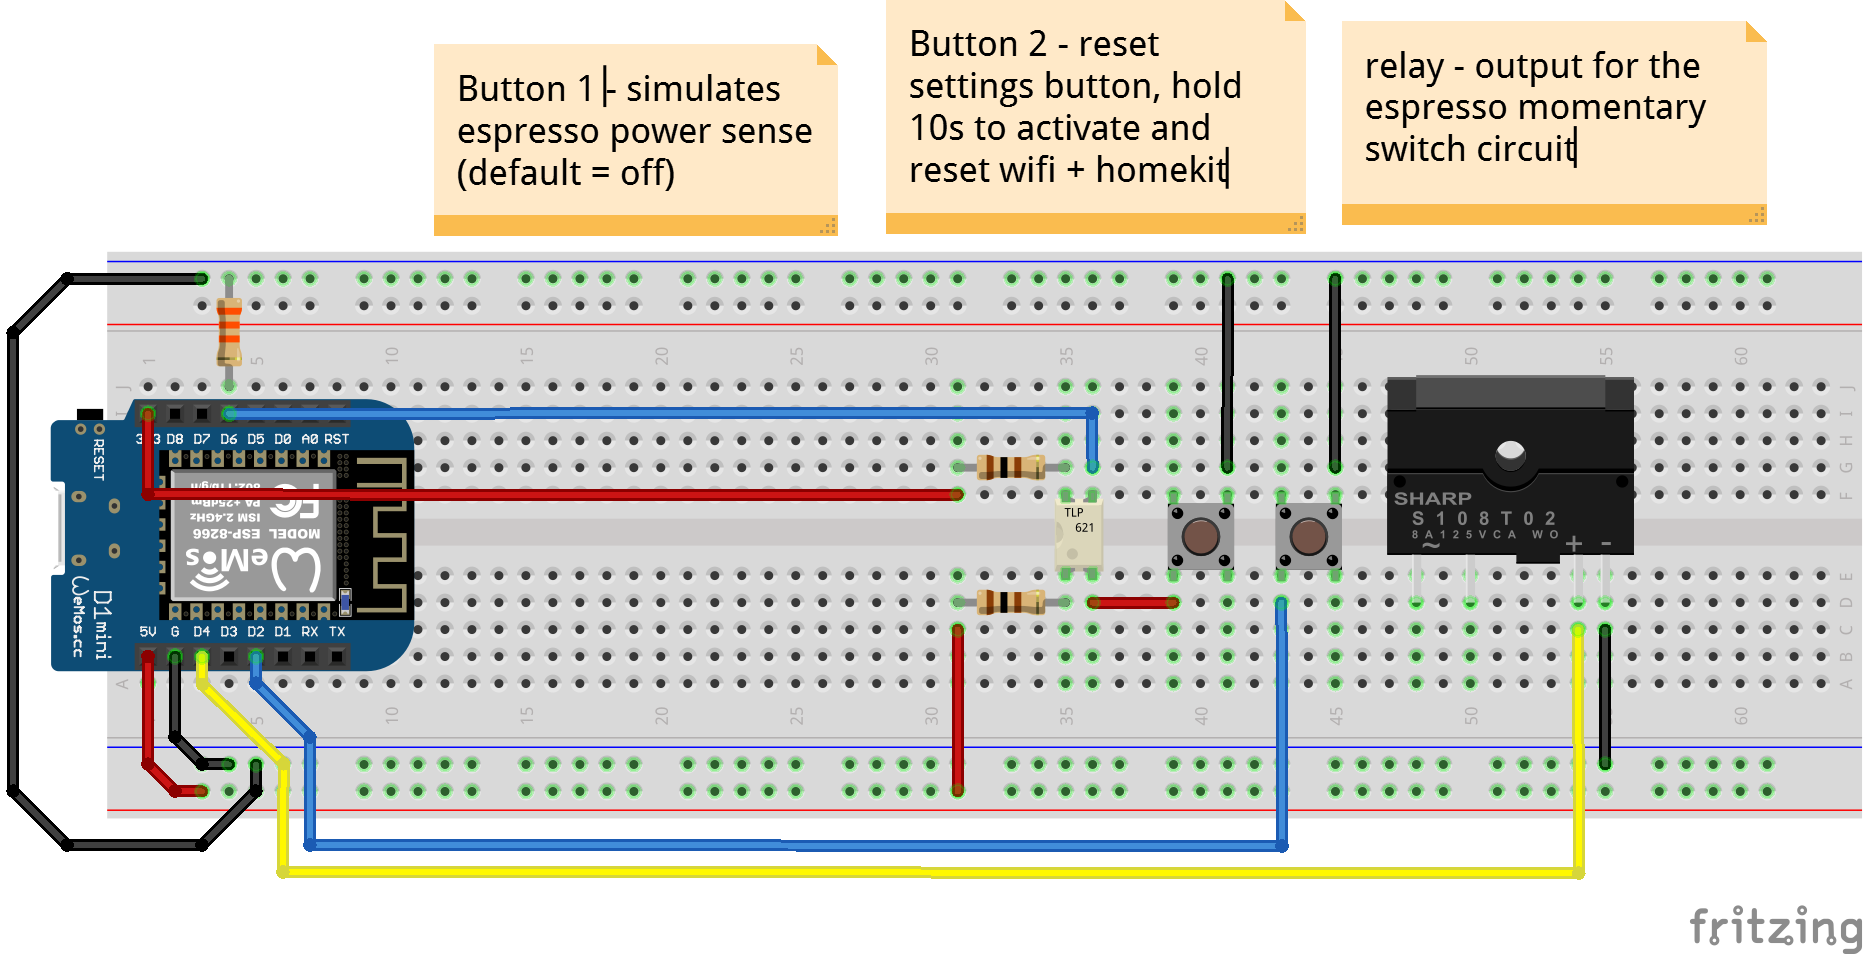
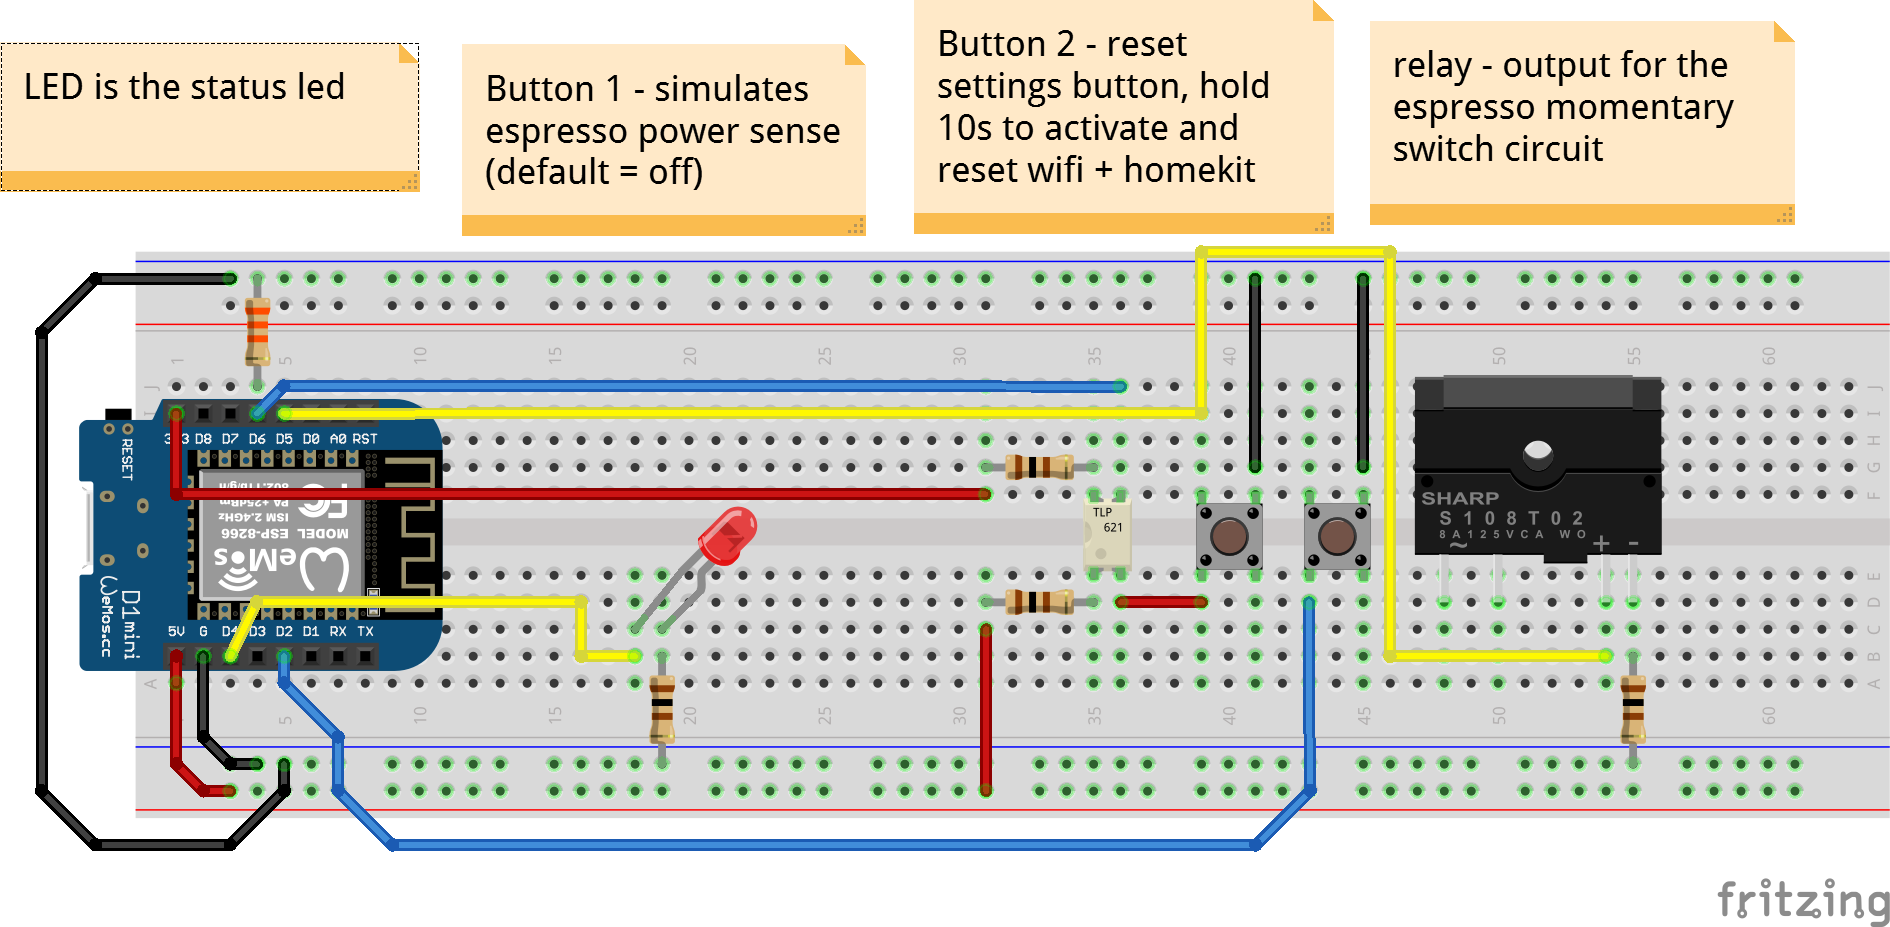
implemented reset on button hold, toggl;e on singlepress

diff --git a/projects/espresso_switch/main.c b/projects/espresso_switch/main.c
@@ -80,6 +80,7 @@ void serial_read_task();
 void on_command(char* cmd);
 void homekit_password_get(char **password);
 void homekit_password_set(const char *password);
+void reset_settings();
 
 /*
  * declared characteristics:
@@ -232,15 +233,17 @@ void accessory_identify_task(void *_args) {
 /**
 callbck function for the holdpress on GPIO_BUTTON
 */
-void button_holdpress_callback(uint8_t gpio, void* context) {
+void on_button_holdpress_callback(uint8_t gpio, void* context) {
     INFO("espresso_switch: registered holdpress on pin: %u", gpio);
+    reset_settings();
 }
 
 /**
 callbck function for singlepress on GPIO_BUTTON
 */
-void button_singlepress_callback(uint8_t gpio, void* context) {
+void on_button_singlepress_callback(uint8_t gpio, void* context) {
     INFO("espresso_switch: registered singlepress on pin: %u", gpio);
+    espresso_toggle();
 }
 
 
@@ -249,12 +252,7 @@ void button_singlepress_callback(uint8_t gpio, void* context) {
  * */
 void on_command_callback(char* cmd) {
     if(!strcmp(cmd, "reset")) {
-    	INFO("espresso_switch: resetting system");
-    	wifi_config_reset();
-    	vTaskDelay(500 / portTICK_PERIOD_MS);
-    	homekit_server_reset();
-    	vTaskDelay(500 / portTICK_PERIOD_MS);
-    	sdk_system_restart();
+	reset_settings();
     } else if( !strcmp(cmd, "reset_wifi") ) {
     	INFO("espresso_switch: resetting wifi settings");
     	wifi_config_reset();
@@ -335,8 +333,8 @@ void homekit_password_init() {
 void button_init() {
     adv_button_set_evaluate_delay(10);
     adv_button_create(GPIO_BUTTON, true, false);
-    adv_button_register_callback_fn(GPIO_BUTTON , button_holdpress_callback, button_event_type_holdpress, NULL);
-    adv_button_register_callback_fn(GPIO_BUTTON , button_singlepress_callback, button_event_type_singlepress, NULL);
+    adv_button_register_callback_fn(GPIO_BUTTON , on_button_holdpress_callback, button_event_type_holdpress, NULL);
+    adv_button_register_callback_fn(GPIO_BUTTON , on_button_singlepress_callback, button_event_type_singlepress, NULL);
 
     INFO("espresso_switch: initialised hold-press button on pin: %d", GPIO_BUTTON);
 }
@@ -369,6 +367,18 @@ void espresso_init() {
 void restore_settings() {
     homekit_password_get(&homekit_config.password);
 
+}
+
+/**
+ * reset wifi, homekit and other settings
+ * */
+void reset_settings() {
+    	INFO("espresso_switch: resetting system");
+    	wifi_config_reset();
+    	vTaskDelay(500 / portTICK_PERIOD_MS);
+    	homekit_server_reset();
+    	vTaskDelay(500 / portTICK_PERIOD_MS);
+    	sdk_system_restart();
 }
 
 void user_init(void) {
